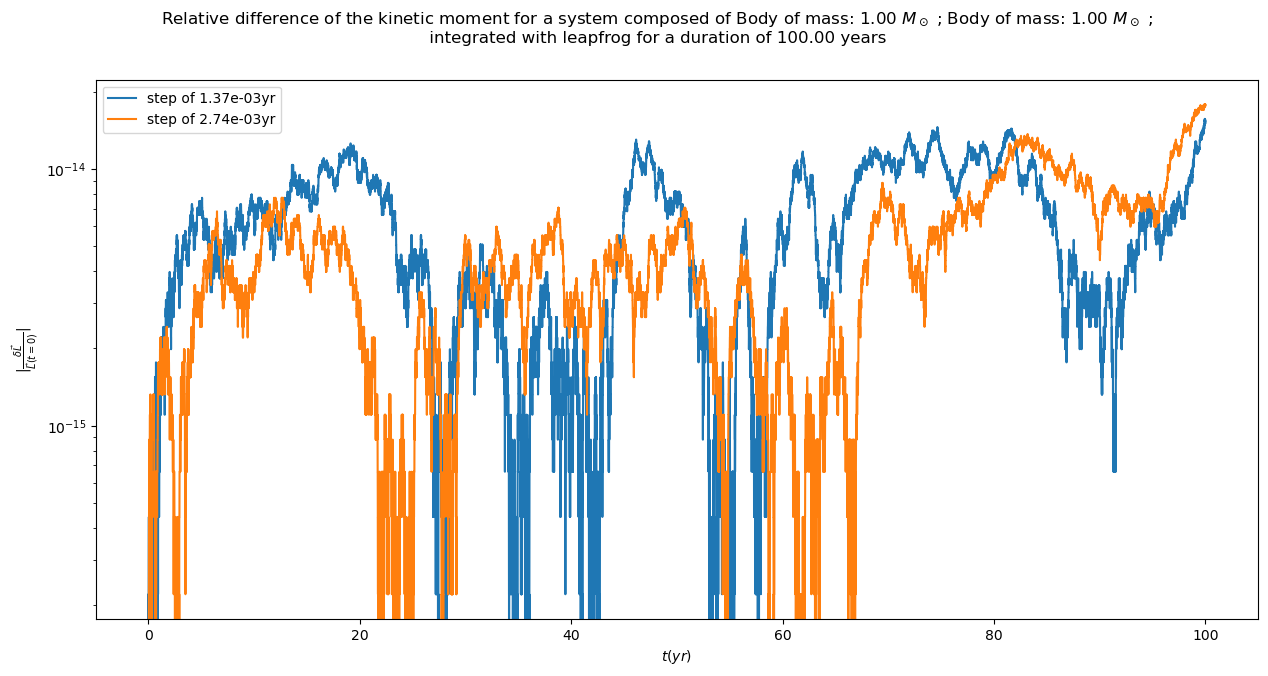
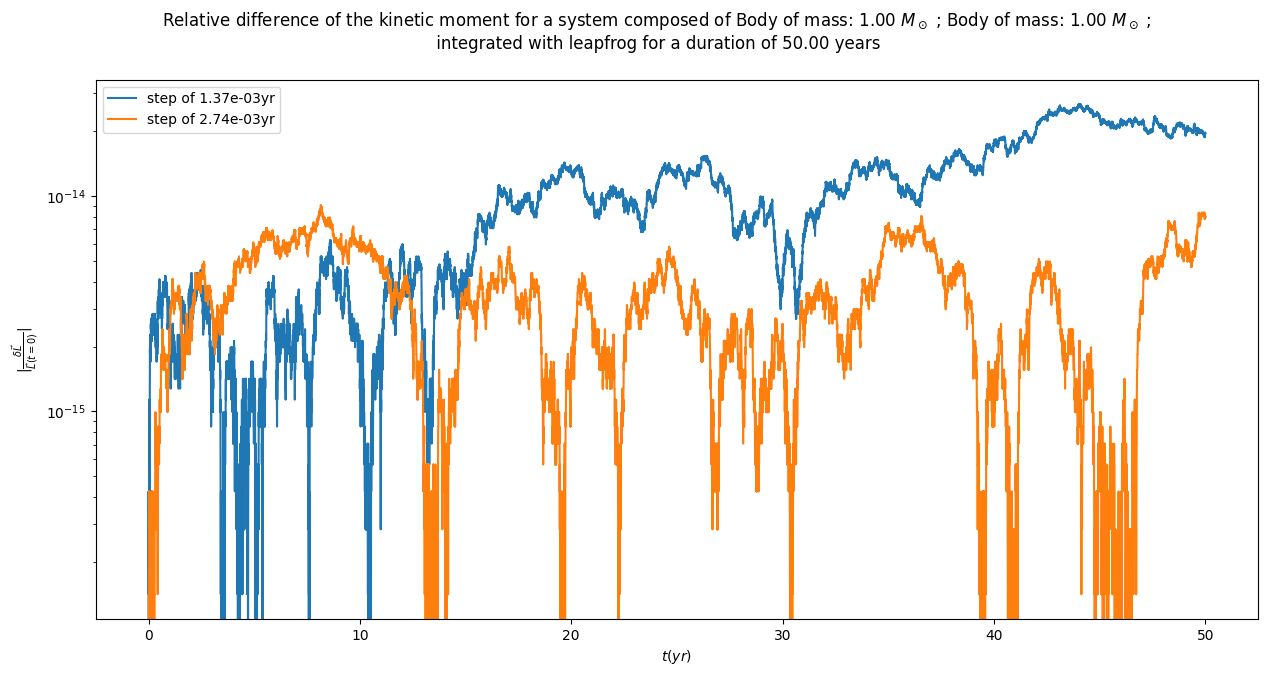
revert with old dimensions

diff --git a/lib/plots.py b/lib/plots.py
@@ -110,12 +110,12 @@ def display_parameters(E,L,parameters,savename=""):
     bodies = ""
     for body in dyn_syst.bodylist:
         bodies += str(body)+" ; "
-    title = "Relative difference of the {0:s} "+"for a system composed of {0:s}\n integrated with {1:s} for a duration of {2:.2f} years ".format(bodies, integrator, duration)
+    title = "Relative difference of the {0:s} "+"for a system composed of {0:s}\n integrated with {1:s} for a duration of {2:.2f} years ".format(bodies, integrator, duration/yr)
 
     fig1 = plt.figure(figsize=(15,7))
     ax1 = fig1.add_subplot(111)
     for i in range(len(E)):
-        ax1.plot(np.arange(E[i].shape[0])*step[i], np.abs((E[i]-E[i][0])/E[i][0]), label="step of {0:.2e}yr".format(step[i]))
+        ax1.plot(np.arange(E[i].shape[0])*step[i]/yr, np.abs((E[i]-E[i][0])/E[i][0]), label="step of {0:.2e}yr".format(step[i]/yr))
     ax1.set(xlabel=r"$t (yr)$", ylabel=r"$\left|\frac{\delta E_m}{E_m(t=0)}\right|$", yscale='log')
     ax1.legend()
     fig1.suptitle(title.format("mechanical energy"))
@@ -126,7 +126,7 @@ def display_parameters(E,L,parameters,savename=""):
     for i in range(len(L)):
         dL = ((L[i]-L[i][0])/L[i][0])
         dL[np.isnan(dL)] = 0.
-        ax2.plot(np.arange(L[i].shape[0])*step[i], np.abs(np.sum(dL,axis=1)), label="step of {0:.2e}yr".format(step[i]))
+        ax2.plot(np.arange(L[i].shape[0])*step[i]/yr, np.abs(np.sum(dL,axis=1)), label="step of {0:.2e}yr".format(step[i]/yr))
     ax2.set(xlabel=r"$t (yr)$", ylabel=r"$\left|\frac{\delta \vec{L}}{\vec{L}(t=0)}\right|$",yscale='log')
     ax2.legend()
     fig2.suptitle(title.format("kinetic moment"))

diff --git a/main.py b/main.py
@@ -9,8 +9,8 @@ from lib.units import *
 
 def main():
     #initialisation
-    m = np.array([1., 1., 1e-5])*Ms/Ms  # Masses in Solar mass
-    a = np.array([1., 1., 5.])*au/au   # Semi-major axis in astronomical units
+    m = np.array([1., 1., 1e-5])*Ms  # Masses in Solar mass
+    a = np.array([1., 1., 5.])*au   # Semi-major axis in astronomical units
     e = np.array([0., 0., 1./4.])   # Eccentricity
     psi = np.array([0., 0., 0.])*np.pi/180.    # Inclination of the orbital plane in degrees
 
@@ -25,10 +25,10 @@ def main():
     v = np.array([v1, v2, v3])
 
     #integration parameters
-    duration, step = 100*yr/yr, np.array([1./(365.25*2.), 1./365.25])*yr/yr #integration time and step in years
+    duration, step = 100*yr, np.array([1./(365.25*2.), 1./365.25])*yr #integration time and step in years
     integrator = "leapfrog"
     n_bodies = 2
-    display = True
+    display = False
     savename = "{0:d}bodies_{1:s}".format(n_bodies, integrator)
 
     #simulation start

diff --git a/lib/objects.py b/lib/objects.py
@@ -23,10 +23,10 @@ class Body:
         self.vp = np.zeros(3)
 
     def __repr__(self): # Called upon "print(body)"
-        return r"Body of mass: {0:.2f} $M_\odot$, position: {1}, velocity: {2}".format(self.m, self.q, self.v)
+        return r"Body of mass: {0:.2f} $M_\odot$, position: {1}, velocity: {2}".format(self.m/Ms, self.q, self.v)
 
     def __str__(self): # Called upon "str(body)"
-        return r"Body of mass: {0:.2f} $M_\odot$".format(self.m)
+        return r"Body of mass: {0:.2f} $M_\odot$".format(self.m/Ms)
 
 class System(Body):
 

diff --git a/lib/units.py b/lib/units.py
@@ -4,7 +4,7 @@
 Units used in the project.
 """
 
+globals()['G'] = 6.67e-11 #Gravitational constant in SI units
 globals()['Ms'] = 2e30 #Solar mass in kg
 globals()['au'] = 1.5e11 #Astronomical unit in m
 globals()['yr'] = 3.15576e7 #year in seconds
-globals()['G'] = 6.67e-11*yr**2 #Gravitational constant in SI units
